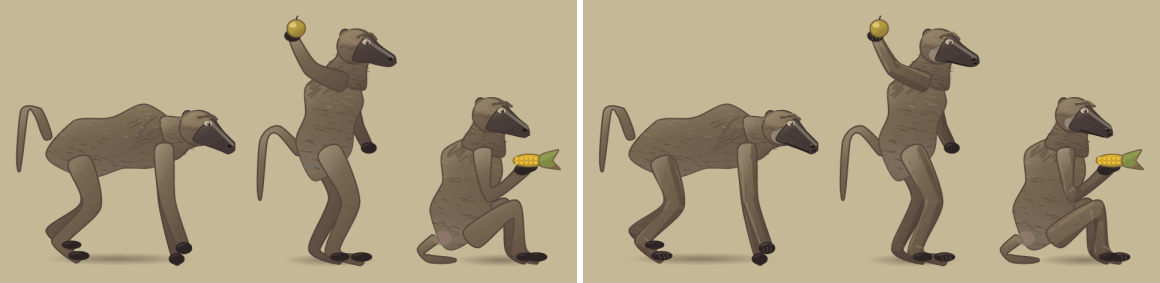
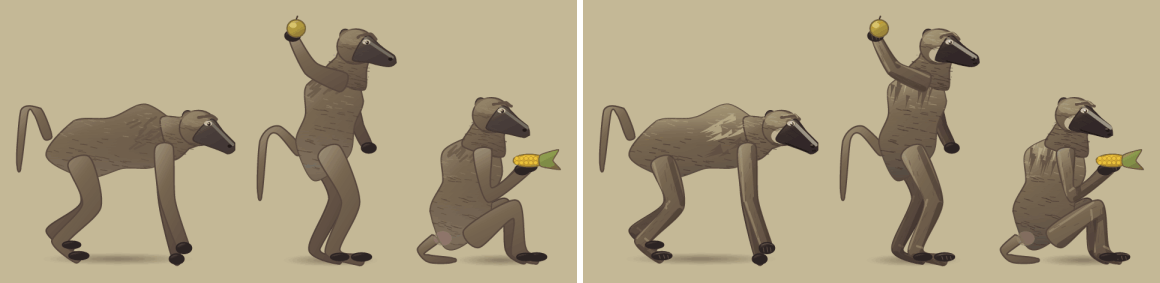
feat(art): baboons — lit olive-grey back and shoulders, darker belly and far limbs, mane tufts inside the outline, paler cheeks, a darker muzzle with a lit bridge, brighter eye shine (D-077 review)

diff --git a/tools/art/baboons.ts b/tools/art/baboons.ts
@@ -57,16 +57,17 @@ interface Coat {
 
 /** Chacma colours (the far frames get the same; the far haze is the layer's tint). */
 const MALE: Coat = {
+  // v1.15 review: more contrast — a lighter olive-grey lit back, a darker belly and muzzle.
   coat: '#776650',
-  lit: '#9A8869',
-  dark: '#4B3F31',
-  belly: '#8F8372',
-  face: '#4A403C',
+  lit: '#B2A47E',
+  dark: '#3A3026',
+  belly: '#5E5446',
+  face: '#352B2A',
   hand: '#2C2723',
   lid: '#CDBFAF',
   pad: '#9A7A74',
 };
-const MOTHER: Coat = { ...MALE, coat: '#7E6E58', lit: '#A29174', belly: '#978B7A' };
+const MOTHER: Coat = { ...MALE, coat: '#7E6E58', lit: '#B8A985', belly: '#665B4C' };
 const BABY: Coat = {
   coat: '#2E2824',
   lit: '#4A403A',
@@ -650,8 +651,8 @@ function headParts(p: Pose, coat: Coat, small: boolean): string[] {
   out.push(
     el('path', {
       d: ellipseD(hx + dir[0] * 0.01 - 0.01, hy + 0.045, r * 0.62, r * 0.42),
-      fill: shade(coat.belly, 0.25),
-      opacity: 0.6,
+      fill: shade(coat.lit, 0.35),
+      opacity: 0.85,
     }),
   );
   // The long dark muzzle (a tapered snout), the nostrils at its tip.
@@ -684,10 +685,10 @@ function headParts(p: Pose, coat: Coat, small: boolean): string[] {
   out.push(
     el('path', {
       d: smoothD([add(m0a, mul(nn, 0.018)), add(m1a, mul(nn, 0.014))], false, 0.6),
-      stroke: shade(coat.face, 0.45),
-      'stroke-width': 0.016,
+      stroke: shade(coat.face, 0.6),
+      'stroke-width': 0.02,
       fill: 'none',
-      opacity: 0.55,
+      opacity: 0.85,
       'stroke-linecap': 'round',
     }),
   );
@@ -822,7 +823,9 @@ function headParts(p: Pose, coat: Coat, small: boolean): string[] {
     out.push(el('path', { d: ellipseD(ex, ey, 0.022, 0.014), fill: coat.lid }));
     out.push(el('path', { d: ellipseD(ex + 0.005, ey + 0.003, 0.0095, 0.01), fill: '#2A1A10' }));
     if (!small) {
-      out.push(el('path', { d: ellipseD(ex + 0.002, ey, 0.004, 0.004), fill: '#F2E8D8' }));
+      out.push(
+        el('path', { d: ellipseD(ex + 0.002, ey - 0.001, 0.0055, 0.0055), fill: '#FFFFFF' }),
+      );
       out.push(
         el('path', {
           d: ellipseD(ex + 0.009, ey + 0.007, 0.002, 0.002),
@@ -984,7 +987,7 @@ function baby(p: Pose, k = 1): string[] {
 export function drawBaboon(p: Pose, coat: Coat, small: boolean, seed: number): string {
   const defs: string[] = [];
   const parts: string[] = [];
-  const far = shade(coat.coat, -0.18);
+  const far = shade(coat.coat, -0.32);
   const w = small ? 0.016 : 0.008;
   // Contact shadow (not while tumbling).
   if (p.spin === undefined || Math.abs(p.spin) < 30) {
@@ -1039,10 +1042,11 @@ export function drawBaboon(p: Pose, coat: Coat, small: boolean, seed: number): s
     el(
       'linearGradient',
       { id: gid, gradientUnits: 'userSpaceOnUse', x1: 0, y1: r2(box.y0), x2: 0, y2: r2(box.y1) },
-      el('stop', { offset: 0, 'stop-color': coat.lit, 'stop-opacity': 0.75 }),
-      el('stop', { offset: 0.45, 'stop-color': coat.coat, 'stop-opacity': 0 }),
-      el('stop', { offset: 0.75, 'stop-color': coat.belly, 'stop-opacity': 0.5 }),
-      el('stop', { offset: 1, 'stop-color': coat.dark, 'stop-opacity': 0.7 }),
+      el('stop', { offset: 0, 'stop-color': shade(coat.lit, 0.15), 'stop-opacity': 0.95 }),
+      el('stop', { offset: 0.3, 'stop-color': coat.lit, 'stop-opacity': 0.55 }),
+      el('stop', { offset: 0.5, 'stop-color': coat.coat, 'stop-opacity': 0 }),
+      el('stop', { offset: 0.72, 'stop-color': coat.belly, 'stop-opacity': 0.7 }),
+      el('stop', { offset: 1, 'stop-color': coat.dark, 'stop-opacity': 0.9 }),
     ),
   );
   body.push(
@@ -1059,23 +1063,35 @@ export function drawBaboon(p: Pose, coat: Coat, small: boolean, seed: number): s
   );
   body.push(fur(tclip.id, box, coat, seed, small ? 1.4 : 0.65));
   if (p.mane === true) {
-    // The male's rougher shoulder cape: darker strokes over the shoulders.
+    // v1.15 review: the male's shoulder cape as tufts inside the outline — pointed locks laid
+    // back over the shoulders, lit ones on top, dark ones between them.
     const sh = p.front;
-    const strokes: string[] = [];
+    const back = unit(sub(p.rear, p.front));
+    const lit: string[] = [];
+    const dk: string[] = [];
     const rnd = prng(seed + 7);
-    for (let i = 0; i < (small ? 6 : 22); i++) {
-      const x = sh[0] - 0.16 + rnd() * 0.22;
-      const y = sh[1] - 0.12 + rnd() * 0.16;
-      strokes.push(`M${r2(x)} ${r2(y)}l${r2(-0.03 - rnd() * 0.03)} ${r2(0.02 + rnd() * 0.03)}`);
+    const n = small ? 8 : 26;
+    for (let i = 0; i < n; i++) {
+      const x = sh[0] - 0.2 + rnd() * 0.24;
+      const y = sh[1] - 0.13 + rnd() * 0.2;
+      const len = 0.05 + rnd() * 0.05;
+      const w = small ? 0.02 : 0.012;
+      const tip: V = [x + back[0] * len, y + back[1] * len + 0.025];
+      const nn = nrm(back);
+      const d = `M${r2(x + nn[0] * w)} ${r2(y + nn[1] * w)}Q${r2(x + back[0] * len * 0.5)} ${r2(y + back[1] * len * 0.5 + 0.01)} ${r2(tip[0])} ${r2(tip[1])}Q${r2(x + back[0] * len * 0.4)} ${r2(y + back[1] * len * 0.4 + 0.02)} ${r2(x - nn[0] * w)} ${r2(y - nn[1] * w)}Z`;
+      (y < sh[1] - 0.02 ? lit : dk).push(d);
     }
     body.push(
       el('path', {
-        d: strokes.join(''),
-        stroke: shade(coat.coat, -0.25),
-        'stroke-width': small ? 0.02 : 0.012,
-        fill: 'none',
-        'stroke-linecap': 'round',
-        opacity: 0.7,
+        d: dk.join(''),
+        fill: shade(coat.coat, -0.35),
+        opacity: 0.8,
+        'clip-path': `url(#${tclip.id})`,
+      }),
+      el('path', {
+        d: lit.join(''),
+        fill: shade(coat.lit, 0.1),
+        opacity: 0.85,
         'clip-path': `url(#${tclip.id})`,
       }),
     );
